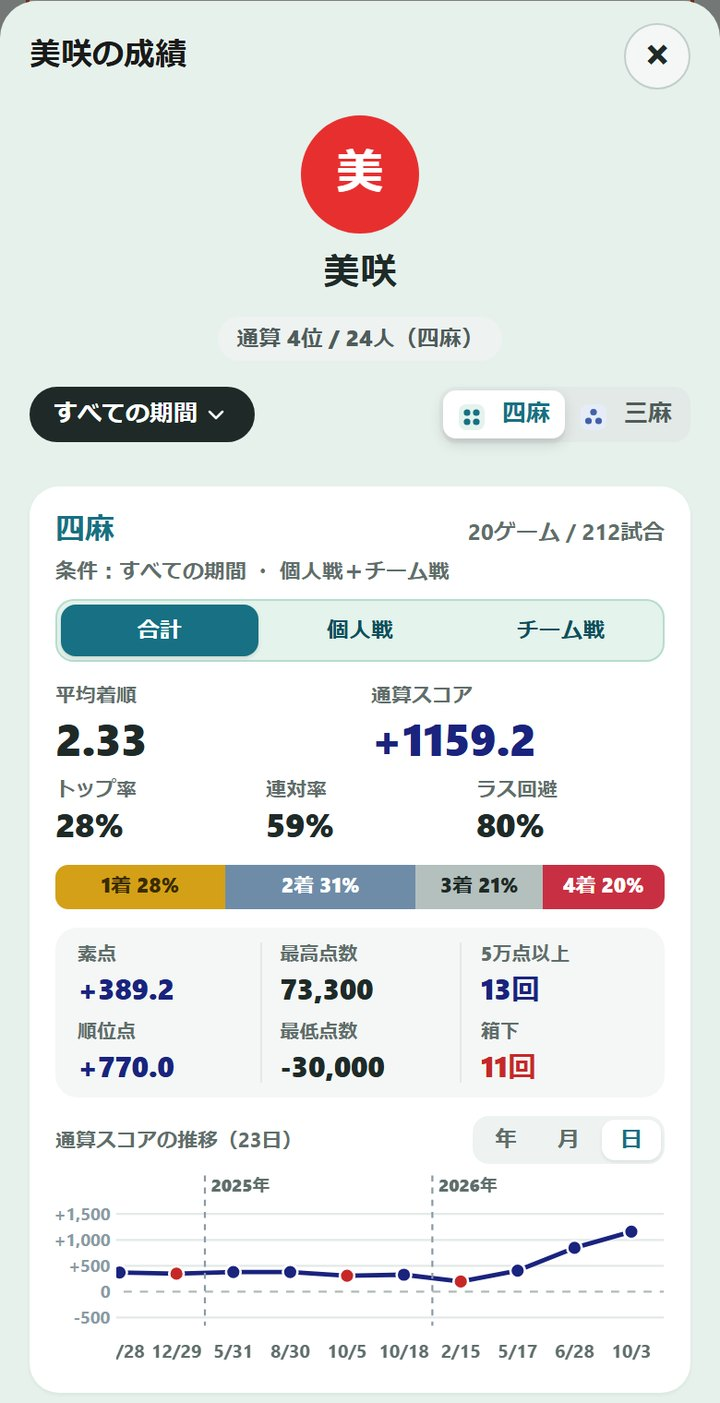
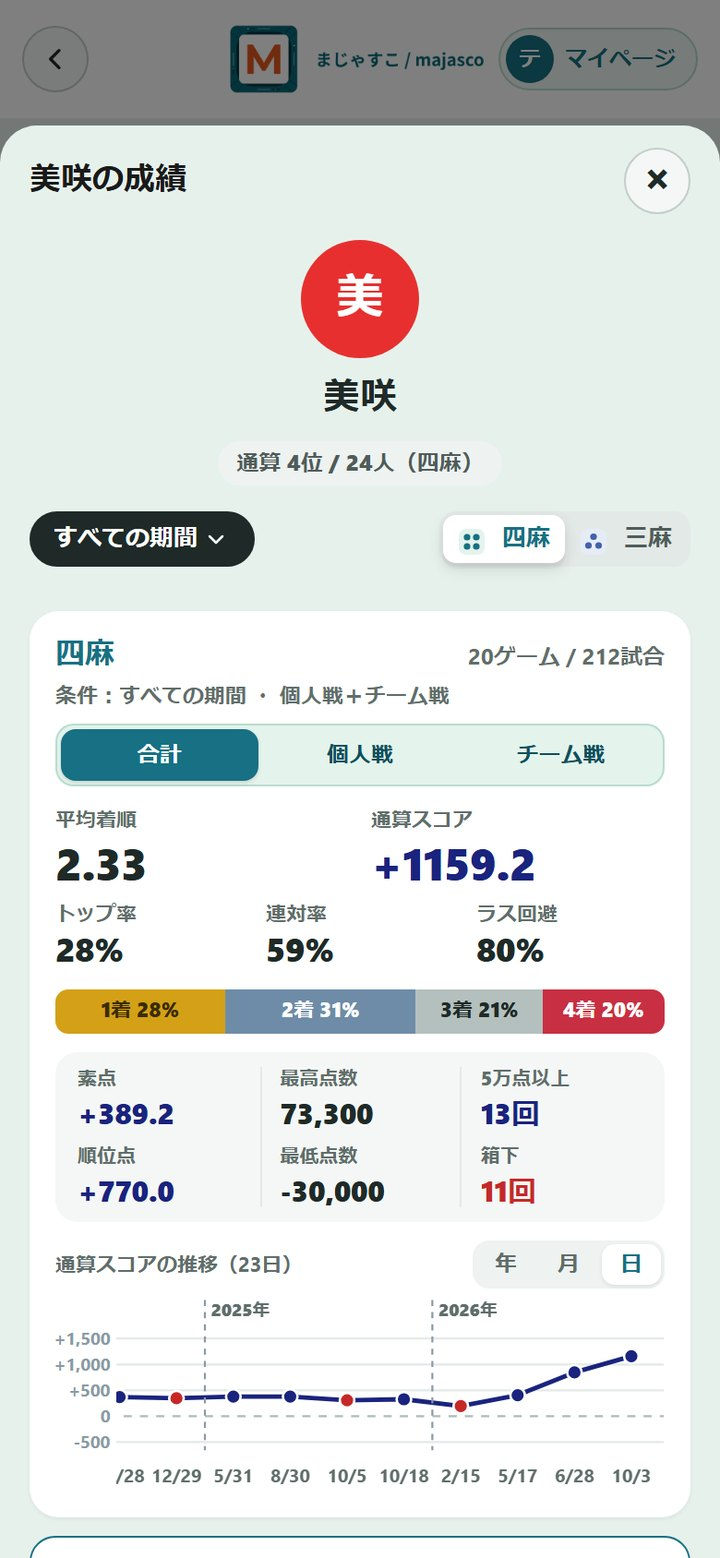
LP：実際の画面をスマホ1画面のスクショそのままに（切り抜かない・中身で埋まる位置で撮る。自分の成績はグラフの月を選んで試合が出ている所）。「スマホ1台で」の説明を1行に短く

diff --git a/index.html b/index.html
@@ -226,8 +226,9 @@ body { font-family: -apple-system, BlinkMacSystemFont, 'Segoe UI', sans-serif; b
 .lp-tab .lp-tab-t, .lp-tab .lp-tab-d { display: none; }
 .lp-phone { width: min(300px, 80vw); padding: 10px; border-radius: 44px; background: #1F2A28; box-shadow: 0 18px 40px rgba(16,40,36,.22); }
 .lp-phone-in { position: relative; border-radius: 34px; overflow: hidden; background: #E6F1EC; }
-.lp-phone-island { position: absolute; z-index: 2; top: 10px; left: 50%; width: 84px; height: 22px; margin-left: -42px; border-radius: 12px; background: #1F2A28; }
-.lp-phone-screen { height: min(540px, 115vw); overflow-y: auto; padding-top: 40px; scrollbar-width: none; overscroll-behavior: contain; }
+.lp-phone-bar { display: flex; justify-content: center; align-items: center; height: 30px; transition: background .3s; }
+.lp-phone-island { width: 84px; height: 20px; border-radius: 12px; background: #1F2A28; }
+.lp-phone-screen { overflow: hidden; }
 .lp-phone-screen::-webkit-scrollbar { display: none; }
 .lp-scr { display: none; width: 100%; height: auto; }
 .lp-scr.on { display: block; animation: lpIn .35s ease; }
@@ -240,7 +241,6 @@ body { font-family: -apple-system, BlinkMacSystemFont, 'Segoe UI', sans-serif; b
 @media (min-width: 1100px) {
   #view-home .lp-demo { display: grid; grid-template-columns: 320px minmax(0, 440px); grid-template-areas: "phone tabs"; justify-content: center; column-gap: 56px; align-items: center; }
   #view-home .lp-phone { grid-area: phone; width: 320px; }
-  #view-home .lp-phone-screen { height: 600px; }
   #view-home .lp-demo-tabs { grid-area: tabs; flex-direction: column; flex-wrap: nowrap; gap: 10px; }
   #view-home .lp-tab { text-align: left; border-radius: 12px; padding: 14px 18px; }
   #view-home .lp-tab b { display: none; }
@@ -272,7 +272,7 @@ body { font-family: -apple-system, BlinkMacSystemFont, 'Segoe UI', sans-serif; b
 .feature .feature-icon svg { position: relative; z-index: 1; width: 48px; height: 48px; }
 .feature h3, .feature p { padding: 0 16px; }
 .feature h3 { font-size: 16.5px; color: #1F2A28; font-weight: 900; }
-.feature p { font-size: 14px; color: #4F5C5A; line-height: 1.75; }
+.feature p { font-size: 14px; color: #4F5C5A; line-height: 1.75; text-wrap: pretty; word-break: auto-phrase; }
 .feature:nth-child(6n+1) { --fc: #0E95A3; } .feature:nth-child(6n+2) { --fc: #2F6BFF; } .feature:nth-child(6n+3) { --fc: #22B573; }
 .feature:nth-child(6n+4) { --fc: #8A5CF6; } .feature:nth-child(6n+5) { --fc: #F59E0B; } .feature:nth-child(6n+6) { --fc: #EC4899; }
 @media (min-width: 700px) { .feature { flex: 0 0 240px; } .features-row::after { flex: 0 0 calc(100% - 240px - 16px); } }
@@ -2682,62 +2682,62 @@ height="0" width="0" style="display:none;visibility:hidden"></iframe></noscript>
         <div class="feature">
           <div class="feature-icon fi-blue"><svg viewBox="0 0 48 48" width="30" height="30"><rect x="12" y="6" width="24" height="36" rx="5" fill="#177083"/><rect x="16" y="11" width="16" height="7" rx="2" fill="#E4F3EC"/><g fill="#E4F3EC"><rect x="16" y="22" width="4.5" height="4" rx="1.2"/><rect x="21.8" y="22" width="4.5" height="4" rx="1.2"/><rect x="27.5" y="22" width="4.5" height="4" rx="1.2"/><rect x="16" y="28.5" width="4.5" height="4" rx="1.2"/><rect x="21.8" y="28.5" width="4.5" height="4" rx="1.2"/><rect x="27.5" y="28.5" width="4.5" height="4" rx="1.2" fill="#E75620"/></g></svg></div>
           <h3>スコアを一瞬で計算</h3>
-          <p>目の前の表示点数をそのまま入力するだけで、返し点・ウマ・オカ込みのスコアを自動計算。同点のときのウマ・オカの山分けなど、ややこしい処理もすべて自動です。</p>
+          <p>表示点数を入れるだけ。ウマ・オカまで自動。</p>
         </div>
         <div class="feature">
           <div class="feature-icon fi-green"><svg viewBox="0 0 48 48" width="30" height="30"><rect x="13" y="12" width="17" height="30" rx="4.5" fill="#177083"/><rect x="16" y="16" width="11" height="18" rx="2" fill="#E4F3EC"/><path d="M34 18 a7 7 0 0 1 5 7" stroke="#E75620" stroke-width="2.5" fill="none" stroke-linecap="round"/><path d="M34 11 a13 13 0 0 1 10 13" stroke="#E75620" stroke-width="2.5" fill="none" stroke-linecap="round"/></svg></div>
           <h3>全員のスマホに共有</h3>
-          <p>URLをLINEなどで送るだけで、全員が同じスコア表を見られます。誰かが入力した結果は一瞬で全員のスマホに反映。「いま誰がトップ？」で毎試合盛り上がれます。</p>
+          <p>URLを送るだけ。入力は全員にすぐ反映。</p>
         </div>
         <div class="feature">
           <div class="feature-icon fi-blue"><svg viewBox="0 0 48 48" width="30" height="30"><rect x="8" y="8" width="32" height="32" rx="6" fill="#ffffff"/><polyline points="14,32 21,25 27,29 34,17" stroke="#177083" stroke-width="3.2" fill="none" stroke-linecap="round" stroke-linejoin="round"/><circle cx="34" cy="17" r="3.2" fill="#E75620"/></svg></div>
           <h3>推移グラフも自動</h3>
-          <p>試合ごとの累積スコアを自動でグラフ化。誰がいつ抜け出したのか、最終戦の大逆転まで、その日のドラマをあとから何度でも振り返れます。</p>
+          <p>誰がいつ抜け出したか、グラフでひと目。</p>
         </div>
         <div class="feature">
           <div class="feature-icon fi-green"><svg viewBox="0 0 48 48" width="30" height="30"><circle cx="13" cy="18" r="5" fill="#9fc3bd"/><path d="M5 34 Q13 25 21 34 Z" fill="#9fc3bd"/><circle cx="35" cy="18" r="5" fill="#9fc3bd"/><path d="M27 34 Q35 25 43 34 Z" fill="#9fc3bd"/><circle cx="24" cy="21" r="6" fill="#177083"/><path d="M14 39 Q24 28 34 39 Z" fill="#177083"/><path d="M40 7 Q40.9 10.1 44 11 Q40.9 11.9 40 15 Q39.1 11.9 36 11 Q39.1 10.1 40 7 Z" fill="#E75620"/></svg></div>
           <h3>最大40人で回し打ち</h3>
-          <p>メンバーは最大40人まで登録OK。試合ごとに対局する人を選ぶだけで、抜け番がいても一人ひとりの成績を自動で集計し続けます。</p>
+          <p>40人まで登録OK。抜け番も自動で集計。</p>
         </div>
         <div class="feature">
           <div class="feature-icon fi-blue"><svg viewBox="0 0 48 48" width="30" height="30"><path d="M16 8 H32 V17 A8 8 0 0 1 16 17 Z" fill="#177083"/><path d="M16 10 H10 A6.5 6.5 0 0 0 17 18" stroke="#9fc3bd" stroke-width="2.5" fill="none"/><path d="M32 10 H38 A6.5 6.5 0 0 1 31 18" stroke="#9fc3bd" stroke-width="2.5" fill="none"/><rect x="21.5" y="24" width="5" height="7" fill="#177083"/><rect x="15" y="31" width="18" height="5" rx="2" fill="#9fc3bd"/><circle cx="24" cy="14" r="2.6" fill="#E75620"/></svg></div>
           <h3>チーム戦にも対応</h3>
-          <p>メンバーをチームに分ければ、Mリーグのような団体戦に。チームカラーで色分けされた成績表と推移グラフで、チームの合計スコアを競えます。</p>
+          <p>チームに分けて、合計スコアで勝負。</p>
         </div>
         <div class="feature">
           <div class="feature-icon fi-green"><svg viewBox="0 0 48 48" width="30" height="30"><g stroke="#9fc3bd" stroke-width="3" stroke-linecap="round"><path d="M10 15 H38"/><path d="M10 24 H38"/><path d="M10 33 H38"/></g><circle cx="18" cy="15" r="4.2" fill="#177083"/><circle cx="31" cy="24" r="4.2" fill="#E75620"/><circle cx="22" cy="33" r="4.2" fill="#177083"/></svg></div>
           <h3>ルールは自由自在</h3>
-          <p>三麻・四麻はもちろん、持ち点・返し点・ウマまで細かく設定OK。いつもの仲間内ルールを、そのまま再現できます。</p>
+          <p>三麻も四麻も。持ち点・ウマも自由に。</p>
         </div>
         <div class="feature">
           <div class="feature-icon fi-blue"><svg viewBox="0 0 48 48" width="30" height="30"><ellipse cx="24" cy="31" rx="13" ry="5.5" fill="#177083"/><ellipse cx="24" cy="24.5" rx="13" ry="5.5" fill="#9fc3bd"/><ellipse cx="24" cy="18" rx="13" ry="5.5" fill="#ffffff" stroke="#9fc3bd" stroke-width="1.6"/><ellipse cx="24" cy="18" rx="6.5" ry="2.6" fill="none" stroke="#E75620" stroke-width="1.6"/></svg></div>
           <h3>焼き鳥やチョンボも記録</h3>
-          <p>1試合もアガれなかった焼き鳥<svg class="ico ico-in" width="16" height="16" aria-hidden="true" focusable="false"><use href="#i-yakitori"/></svg>や、チョンボ<svg class="ico ico-in" width="16" height="16" aria-hidden="true" focusable="false"><use href="#i-chombo"/></svg>のマークをワンタップで記録。チョンボの罰符は合計スコアに自動で反映されます。</p>
+          <p>ワンタップで記録。罰符もスコアに反映。</p>
         </div>
         <div class="feature">
           <div class="feature-icon fi-green"><svg viewBox="0 0 48 48" width="30" height="30"><rect x="11" y="7" width="26" height="34" rx="4" fill="#ffffff"/><path d="M11 11 a4 4 0 0 1 4 -4 h18 a4 4 0 0 1 4 4 v4 H11 Z" fill="#177083"/><g stroke="#9fc3bd" stroke-width="2.5" stroke-linecap="round"><path d="M16 22 H32"/><path d="M16 28 H32"/><path d="M16 34 H26"/></g><circle cx="33" cy="35" r="6" fill="#E75620"/><text x="33" y="38.2" font-size="8.5" font-weight="bold" fill="#ffffff" text-anchor="middle" font-family="sans-serif">1</text></svg></div>
           <h3>成績表も自動で作成</h3>
-          <p>1着〜ラスの回数、平均着順、ラス回避率まで自動で集計。試合を重ねるほどデータが貯まり、実力がはっきり見えてきます。</p>
+          <p>着順の回数・平均着順・ラス回避率まで。</p>
         </div>
         <div class="feature">
           <div class="feature-icon fi-blue"><svg viewBox="0 0 48 48" width="30" height="30"><circle cx="15" cy="17" r="6" fill="#177083"/><path d="M5 36 a10 9 0 0 1 20 0 Z" fill="#177083"/><circle cx="33" cy="17" r="6" fill="#9fc3bd"/><path d="M23 36 a10 9 0 0 1 20 0 Z" fill="#9fc3bd"/><circle cx="24" cy="26" r="7" fill="#E75620"/><text x="24" y="29.2" font-size="7.5" font-weight="bold" fill="#ffffff" text-anchor="middle" font-family="sans-serif">VS</text></svg></div>
           <h3>相手ごとの対戦成績</h3>
-          <p>同じ試合に出た相手ごとに「何勝何敗か」「平均着順」「スコア差」を自動で集計。相性のいい相手、手ごわい相手がひと目でわかります。</p>
+          <p>相性のいい相手、手ごわい相手がわかる。</p>
         </div>
         <div class="feature">
           <div class="feature-icon fi-green"><svg viewBox="0 0 48 48" width="30" height="30"><rect x="9" y="13" width="24" height="28" rx="4" fill="#9fc3bd"/><rect x="13" y="9" width="24" height="28" rx="4" fill="#ffffff" stroke="#177083" stroke-width="2"/><g stroke="#9fc3bd" stroke-width="2.5" stroke-linecap="round"><path d="M18 17 H32"/><path d="M18 23 H32"/><path d="M18 29 H27"/></g><path d="M31 31 h10 v5 a5 5 0 0 1 -10 0 Z" fill="#E75620"/><rect x="35" y="40" width="2" height="3" fill="#E75620"/><rect x="32.5" y="43" width="7" height="2" rx="1" fill="#E75620"/></svg></div>
           <h3>仲間ページで通算順位</h3>
-          <p>定例会や大会の試合を「仲間ページ」に集めると、自分が入っていない試合も含めた通算順位と対戦成績が出ます。結果のリンクは、ログインなしで誰でも見られます。</p>
+          <p>定例会の試合を集めて、通算の順位に。</p>
         </div>
         <div class="feature">
           <div class="feature-icon fi-blue"><svg viewBox="0 0 48 48" width="30" height="30"><rect x="10" y="7" width="28" height="34" rx="4" fill="#ffffff"/><path d="M10 12 a4 4 0 0 1 4 -5 h20 a4 4 0 0 1 4 5 v4 H10 Z" fill="#177083"/><g stroke="#9fc3bd" stroke-width="2.2"><path d="M10 24 H38"/><path d="M10 31 H38"/><path d="M19.5 16 V41"/><path d="M28.5 16 V41"/></g><circle cx="34" cy="34" r="7" fill="#E75620"/><path d="M34 30.4 V36 M31 33.4 L34 36.4 L37 33.4" stroke="#ffffff" stroke-width="2.2" fill="none" stroke-linecap="round" stroke-linejoin="round"/></svg></div>
           <h3>CSVで書き出せる</h3>
-          <p>試合結果はワンタップでCSVファイルをダウンロード。Excelやスプレッドシートに取り込めば、オリジナルの集計表や年間ランキングも作れます。</p>
+          <p>ワンタップでExcelやスプレッドシートへ。</p>
         </div>
         <div class="feature">
           <div class="feature-icon fi-green"><svg viewBox="0 0 48 48" width="30" height="30"><rect x="8" y="10" width="17" height="30" rx="4" fill="#9fc3bd"/><rect x="11" y="14" width="11" height="18" rx="2" fill="#ffffff"/><rect x="24" y="8" width="17" height="30" rx="4" fill="#177083"/><rect x="27" y="12" width="11" height="18" rx="2" fill="#E4F3EC"/><g transform="translate(15 30)"><circle cx="6" cy="6" r="5" fill="none" stroke="#E75620" stroke-width="3.2"/><line x1="9.8" y1="9.8" x2="19" y2="19" stroke="#E75620" stroke-width="3.2" stroke-linecap="round"/><line x1="15" y1="15" x2="18" y2="12" stroke="#E75620" stroke-width="3.2" stroke-linecap="round"/></g></svg></div>
           <h3>ログインで記録がずっと残る</h3>
-          <p>Googleでログインすると、過去の試合と自分の成績がアカウントに残ります。機種変更しても、ホーム画面のアプリでも同じ一覧。記録するだけならログインは不要です。</p>
+          <p>機種変更しても、成績はずっと残る。</p>
         </div>
         </div>
         <button type="button" class="features-nav next" onclick="featuresScroll(1)" aria-label="次の項目へ">›</button>
@@ -2753,11 +2753,11 @@ height="0" width="0" style="display:none;visibility:hidden"></iframe></noscript>
       <h2>実際の画面で見る。</h2>
       <p class="lp-body" style="text-align:center">記録は、打つたびに積み上がります。</p>
       <div class="lp-demo" id="lp-demo">
-        <div class="lp-demo-tabs" role="tablist" aria-label="見たい画面を選ぶ"><button type="button" role="tab" class="lp-tab on" aria-selected="true" aria-controls="lp-scr-rank" onclick="lpDemo(0, true)"><b>通算順位</b><span class="lp-tab-t">仲間の通算順位が、表彰台で</span><span class="lp-tab-d">ゲームを集めるだけで、通算スコア・平均着順の順位が自動で決まります。</span></button><button type="button" role="tab" class="lp-tab" aria-selected="false" aria-controls="lp-scr-month" onclick="lpDemo(1, true)"><b>今月の試合</b><span class="lp-tab-t">今月の勝ち、ひと目で</span><span class="lp-tab-d">グラフの月を押すと、その月のゲームごとの順位・スコア・着順の回数が並びます。</span></button><button type="button" role="tab" class="lp-tab" aria-selected="false" aria-controls="lp-scr-h2h" onclick="lpDemo(2, true)"><b>総当たり</b><span class="lp-tab-t">あの人には勝ち越してる？</span><span class="lp-tab-d">同じ試合で上だった回数を、メンバーどうしの総当たりで。相性が数字で出ます。</span></button><button type="button" role="tab" class="lp-tab" aria-selected="false" aria-controls="lp-scr-member" onclick="lpDemo(3, true)"><b>メンバーの成績</b><span class="lp-tab-t">メンバーごとの成績と推移</span><span class="lp-tab-d">平均着順・トップ率・ラス回避と、通算スコアの上がり下がりがグラフで。</span></button><button type="button" role="tab" class="lp-tab" aria-selected="false" aria-controls="lp-scr-mypage" onclick="lpDemo(4, true)"><b>自分の成績</b><span class="lp-tab-t">自分の成績も、ずっと残る</span><span class="lp-tab-d">Googleでログインすれば、何年分でも自分の成績と推移が残ります。</span></button></div>
-        <div class="lp-phone" aria-label="スマホの画面"><div class="lp-phone-in"><span class="lp-phone-island" aria-hidden="true"></span><div class="lp-phone-screen" tabindex="0"><img id="lp-scr-rank" class="lp-scr on" role="tabpanel" src="/assets/screens/lp-rank.jpg" width="720" height="1060" alt="仲間ページの通算順位の画面。表彰台に1位から3位、その下に4位以下のスコア" loading="lazy" data-href="/news/nakama-page.html" data-title="仲間の通算順位が、表彰台で" data-desc="ゲームを集めるだけで、通算スコア・平均着順の順位が自動で決まります。"><img id="lp-scr-month" class="lp-scr" role="tabpanel" src="/assets/screens/lp-month.jpg" width="720" height="596" alt="マイページの、ある月の試合の一覧。ゲームごとの順位とスコア、1着から4着の回数、相手" loading="lazy" data-href="/news/mypage-stats.html" data-title="今月の勝ち、ひと目で" data-desc="グラフの月を押すと、その月のゲームごとの順位・スコア・着順の回数が並びます。"><img id="lp-scr-h2h" class="lp-scr" role="tabpanel" src="/assets/screens/lp-h2h.jpg" width="720" height="984" alt="総当たり表。メンバーどうしの直接対決の勝ち越し・負け越し" loading="lazy" data-href="/news/nakama-page.html#h2h" data-title="あの人には勝ち越してる？" data-desc="同じ試合で上だった回数を、メンバーどうしの総当たりで。相性が数字で出ます。"><img id="lp-scr-member" class="lp-scr" role="tabpanel" src="/assets/screens/lp-member.jpg" width="720" height="1403" alt="メンバーの成績の画面。平均着順・通算スコア・トップ率と、通算スコアの推移のグラフ" loading="lazy" data-href="/news/nakama-page.html" data-title="メンバーごとの成績と推移" data-desc="平均着順・トップ率・ラス回避と、通算スコアの上がり下がりがグラフで。"><img id="lp-scr-mypage" class="lp-scr" role="tabpanel" src="/assets/screens/lp-mypage.jpg" width="720" height="908" alt="マイページの成績カード。平均着順・通算スコア・着順の割合と推移のグラフ" loading="lazy" data-href="/news/mypage-stats.html" data-title="自分の成績も、ずっと残る" data-desc="Googleでログインすれば、何年分でも自分の成績と推移が残ります。"></div></div></div>
+        <div class="lp-demo-tabs" role="tablist" aria-label="見たい画面を選ぶ"><button type="button" role="tab" class="lp-tab on" aria-selected="true" aria-controls="lp-scr-rank" onclick="lpDemo(0, true)"><b>通算順位</b><span class="lp-tab-t">仲間の通算順位が、表彰台で</span><span class="lp-tab-d">ゲームを集めるだけで、通算スコア・平均着順の順位が自動で決まります。</span></button><button type="button" role="tab" class="lp-tab" aria-selected="false" aria-controls="lp-scr-games" onclick="lpDemo(1, true)"><b>過去の試合</b><span class="lp-tab-t">何十回分の試合も、ひと目で</span><span class="lp-tab-d">打った日ごとにタイルで並び、押せばその日の結果が開きます。</span></button><button type="button" role="tab" class="lp-tab" aria-selected="false" aria-controls="lp-scr-h2h" onclick="lpDemo(2, true)"><b>総当たり</b><span class="lp-tab-t">あの人には勝ち越してる？</span><span class="lp-tab-d">同じ試合で上だった回数を、メンバーどうしの総当たりで。相性が数字で出ます。</span></button><button type="button" role="tab" class="lp-tab" aria-selected="false" aria-controls="lp-scr-member" onclick="lpDemo(3, true)"><b>メンバーの成績</b><span class="lp-tab-t">メンバーごとの成績と推移</span><span class="lp-tab-d">平均着順・トップ率・ラス回避と、通算スコアの上がり下がりがグラフで。</span></button><button type="button" role="tab" class="lp-tab" aria-selected="false" aria-controls="lp-scr-mypage" onclick="lpDemo(4, true)"><b>自分の成績</b><span class="lp-tab-t">グラフを押すと、その月の試合</span><span class="lp-tab-d">自分の通算スコアの推移。月を押すと、その月のゲームの順位とスコアが下に並びます。</span></button></div>
+        <div class="lp-phone" aria-label="スマホの画面"><div class="lp-phone-in"><span class="lp-phone-bar" style="background:#FAF6EB" aria-hidden="true"><span class="lp-phone-island"></span></span><div class="lp-phone-screen"><img id="lp-scr-rank" class="lp-scr on" role="tabpanel" src="/assets/screens/lp-rank.jpg" width="720" height="1558" alt="仲間ページの通算順位の画面。表彰台に1位から3位、その下に4位以下のスコアが並ぶ" loading="lazy" data-href="/news/nakama-page.html" data-title="仲間の通算順位が、表彰台で" data-desc="ゲームを集めるだけで、通算スコア・平均着順の順位が自動で決まります。" data-top="#FAF6EB"><img id="lp-scr-games" class="lp-scr" role="tabpanel" src="/assets/screens/lp-games.jpg" width="720" height="1558" alt="仲間ページの過去の試合の画面。月ごとに試合のタイルが並ぶ" loading="lazy" data-href="/news/nakama-page.html" data-title="何十回分の試合も、ひと目で" data-desc="打った日ごとにタイルで並び、押せばその日の結果が開きます。" data-top="#FAF6EB"><img id="lp-scr-h2h" class="lp-scr" role="tabpanel" src="/assets/screens/lp-h2h.jpg" width="720" height="1558" alt="総当たり表。メンバーどうしの直接対決の勝ち越し・負け越し" loading="lazy" data-href="/news/nakama-page.html#h2h" data-title="あの人には勝ち越してる？" data-desc="同じ試合で上だった回数を、メンバーどうしの総当たりで。相性が数字で出ます。" data-top="#FAF6EB"><img id="lp-scr-member" class="lp-scr" role="tabpanel" src="/assets/screens/lp-member.jpg" width="720" height="1558" alt="メンバーの成績の画面。平均着順・通算スコア・トップ率と、通算スコアの推移のグラフ" loading="lazy" data-href="/news/nakama-page.html" data-title="メンバーごとの成績と推移" data-desc="平均着順・トップ率・ラス回避と、通算スコアの上がり下がりがグラフで。" data-top="#7F7F7F"><img id="lp-scr-mypage" class="lp-scr" role="tabpanel" src="/assets/screens/lp-mypage.jpg" width="720" height="1558" alt="マイページの成績。通算スコアの推移のグラフで月を選ぶと、その月のゲームごとの順位とスコアが並ぶ" loading="lazy" data-href="/news/mypage-stats.html" data-title="グラフを押すと、その月の試合" data-desc="自分の通算スコアの推移。月を押すと、その月のゲームの順位とスコアが下に並びます。" data-top="#E6F1EB"></div></div></div>
         <div class="lp-demo-cap"><b id="lp-demo-t">仲間の通算順位が、表彰台で</b><span id="lp-demo-d">ゲームを集めるだけで、通算スコア・平均着順の順位が自動で決まります。</span><a id="lp-demo-a" href="/news/nakama-page.html">くわしく見る ›</a></div>
       </div>
-      <p class="lp-shots-note">実際の仲間ページの記録です（人の名前とグループ名は置きかえています）。画面の中はスクロールできます。</p>
+      <p class="lp-shots-note">実際の仲間ページの記録を、スマホの画面のまま撮ったものです（人の名前とグループ名は置きかえています）。</p>
     </div>
   </section>
 
@@ -7679,7 +7679,7 @@ function lpDemo(i, user) {
   tabs.forEach((t, j) => { t.classList.toggle('on', j === lpDemoIdx); t.setAttribute('aria-selected', j === lpDemoIdx ? 'true' : 'false'); });
   scrs.forEach((el, j) => el.classList.toggle('on', j === lpDemoIdx));
   const cur = scrs[lpDemoIdx];
-  root.querySelector('.lp-phone-screen').scrollTop = 0;
+  root.querySelector('.lp-phone-bar').style.background = cur.dataset.top;
   document.getElementById('lp-demo-t').textContent = cur.dataset.title;
   document.getElementById('lp-demo-d').textContent = cur.dataset.desc;
   document.getElementById('lp-demo-a').href = cur.dataset.href;
@@ -7688,7 +7688,7 @@ function initLpDemo() {
   const root = document.getElementById('lp-demo');
   if (!root) return;
   root.querySelectorAll('.lp-scr').forEach(img => { img.loading = 'eager'; });
-  root.querySelector('.lp-phone-screen').addEventListener('pointerdown', () => { lpDemoUser = true; clearInterval(lpDemoTimer); }, { passive: true });
+  root.querySelector('.lp-phone').addEventListener('pointerdown', () => { lpDemoUser = true; clearInterval(lpDemoTimer); }, { passive: true });
   if (window.matchMedia && matchMedia('(prefers-reduced-motion: reduce)').matches) return;
   if (!('IntersectionObserver' in window)) return;
   new IntersectionObserver(es => es.forEach(e => {

diff --git a/tools/shoot_lp_screens_plan.py b/tools/shoot_lp_screens_plan.py
@@ -1,68 +1,49 @@
-# shoot_lp_screens.py から読み込む撮影の段取り（どの画面をどの順に撮るか）。期間は「すべて」・四麻
-def clip(sel, name, maxh):
-    """長い要素は上から maxh（CSS px）だけ撮る"""
-    el = pg.locator(sel).first
-    el.scroll_into_view_if_needed()
-    pg.evaluate("(s) => { const e = document.querySelector(s); window.scrollTo(0, e.getBoundingClientRect().top + scrollY - 8); }", sel)
-    pg.wait_for_timeout(350)
-    b = pg.evaluate("(s) => { const r = document.querySelector(s).getBoundingClientRect(); return {x: r.left, y: r.top, w: r.width, h: r.height}; }", sel)
-    h = min(b["h"], maxh)
-    pg.set_viewport_size({"width": 390, "height": int(max(844, h + 40))})
-    pg.wait_for_timeout(200)
-    b = pg.evaluate("(s) => { const r = document.querySelector(s).getBoundingClientRect(); return {x: r.left, y: r.top, w: r.width, h: r.height}; }", sel)
+# shoot_lp_screens.py から読み込む撮影の段取り（2026-10-26 第2版）。
+# スマホ1画面（390×844）をそのまま撮る＝要素を切り抜かない（切り抜くと周りに色の縁が残る・不自然、というユーザーの指摘）。
+# どの画面も中身で埋まる位置までスクロールしてから撮る。期間は「すべて」・四麻
+def vshot(name, sel, top=56):
+    """sel の要素の上端が画面の上から top px に来るようにスクロールして、画面1枚をそのまま撮る"""
+    pg.evaluate("""([s, t]) => { const e = document.querySelector(s); if (!e) return;
+      const y = e.getBoundingClientRect().top + window.scrollY - t; window.scrollTo(0, Math.max(0, y)); }""", [sel, top])
+    pg.wait_for_timeout(500)
     path = os.path.join(OUT, "lp-" + name + ".png")
-    pg.screenshot(path=path, clip={"x": b["x"], "y": b["y"], "width": b["w"], "height": min(b["h"], maxh)})
-    pg.set_viewport_size({"width": 390, "height": 844})
+    pg.screenshot(path=path)
     shots.append((name, path, pg.evaluate(CUT_JS, sel)))
 
-# 横にスクロールする並び（指標のボタン）は、撮るときだけ折り返して全部見せる（右端で文字が切れないように）
-pg.add_style_tag(content="#circle-body [onclick*=shiftCircleMetricTo] { flex-shrink: 0; } ")
-pg.evaluate("""() => { const b = document.querySelector("#circle-body [onclick*=shiftCircleMetricTo]"); if (b) window.__chipRowCls = b.parentElement.className; }""")
 pg.evaluate("setMpPeriod('all'); mpMode = 4; circleTab = 'rank'; circleMetric = 'score'; renderCircle()")
 pg.wait_for_timeout(900)
-row = pg.evaluate("(() => { const b = document.querySelector('#circle-body [onclick*=shiftCircleMetricTo]'); return b ? b.parentElement.className : ''; })()")
-if row:
-    pg.add_style_tag(content="." + row.split()[0] + " { flex-wrap: wrap !important; overflow: visible !important; }")
-    pg.wait_for_timeout(200)
-# 通算順位：表彰台と4〜7位のカードまで（カードの途中で切らない）
-cut = pg.evaluate("""(() => { const card = document.querySelector('#circle-body .rank-card'); const top = card.getBoundingClientRect().top;
-  const items = [...card.querySelectorAll('[onclick^=openCircleMember]')]; const it = items[5] || items[items.length - 1];
-  return Math.round(it.getBoundingClientRect().bottom - top + 3); })()""")
-clip("#circle-body .rank-card", "rank", cut)
-pg.evaluate("circleTab = 'h2h'; renderCircle()"); pg.wait_for_timeout(800)
-# 総当たり表は相手4人ぶんの列だけ見せる（右の列が途中で切れないように）
-pg.add_style_tag(content="#circle-body .card table th:nth-child(n+6), #circle-body .card table td:nth-child(n+6) { display: none !important; } #circle-body .card table { width: 100% !important; min-width: 0 !important; }")
-pg.wait_for_timeout(300)
-cut = pg.evaluate("""(() => { const card = document.querySelector('#circle-body .card'); const top = card.getBoundingClientRect().top;
-  const rows = [...card.querySelectorAll('tbody tr')]; const r = rows[Math.min(6, rows.length - 1)]; return Math.round(r.getBoundingClientRect().bottom - top + 1); })()""")
-clip("#circle-body .card", "h2h", cut)
+# 通算順位：表彰台から下の順位まで
+vshot("rank", "#circle-body .rank-card", 64)
+# 過去の試合：ゲームのタイルがびっしり
+pg.evaluate("circleTab = 'games'; renderCircle()"); pg.wait_for_timeout(1000)
+vshot("games", "#circle-body .card", 64)
+# 総当たり表
+pg.evaluate("circleTab = 'h2h'; renderCircle()"); pg.wait_for_timeout(900)
+vshot("h2h", "#circle-body .card", 64)
+# メンバーの成績（シートは画面いっぱいに開くので、そのまま撮る）
 pg.evaluate("circleTab = 'rank'; renderCircle()"); pg.wait_for_timeout(500)
-pg.evaluate("openCircleMember('HjepWbWQ')"); pg.wait_for_timeout(900)
-clip("#form-modal .form-modal-box", "member", 760)
+pg.evaluate("window.scrollTo(0, 0)")
+pg.evaluate("openCircleMember('HjepWbWQ')"); pg.wait_for_timeout(1200)
+path = os.path.join(OUT, "lp-member.png"); pg.screenshot(path=path); shots.append(("member", path, []))
 pg.evaluate("closeFormModal()"); pg.wait_for_timeout(300)
-# マイページ（仲間ページの試合を自分の過去の試合に入れてから）
+# マイページ：月ごとのグラフの点を押して、その下にその月の試合が出ているところ
 pg.evaluate("(async () => { await syncCircleGamesToMine(); })()"); pg.wait_for_timeout(1500)
-pg.evaluate("showView('history'); setMpPeriod('all'); mpMode = 4; renderHistory()"); pg.wait_for_timeout(1200)
-shot("#view-history .mc-card", "mypage")
-# グラフを月ごとにして、点を押すと出る「その月の試合」（勝った月・ゲームが2つ以上の月を選ぶ）
-pg.evaluate("setMpPane('sum'); sparkUnit = 'm'; renderHistory()"); pg.wait_for_timeout(1000)
+pg.evaluate("showView('history'); setMpPeriod('all'); mpMode = 4; setMpPane('sum'); sparkUnit = 'm'; renderHistory()"); pg.wait_for_timeout(1200)
 n = pg.evaluate("document.querySelectorAll('#view-history .sp-hit').length")
 best = None
 for k in range(n):
     pg.evaluate(f"document.querySelectorAll('#view-history .sp-hit')[{k}].dispatchEvent(new MouseEvent('click', {{ bubbles: true }}))")
-    pg.wait_for_timeout(250)
+    pg.wait_for_timeout(200)
     info = pg.evaluate("""(() => { const p = document.querySelector('#view-history .sp-pop'); if (!p) return null;
-      const t = (p.querySelector('.sp-sum') || {}).innerText || ''; const m = t.replace(/−/g, '-').match(/([+-][0-9,]+\.?[0-9]*)\s*$/);
-      return { sum: m ? parseFloat(m[1].replace(/,/g, '')) : null, games: p.querySelectorAll('.sp-g').length, h: p.offsetHeight, t: t.replace(/\s+/g, ' ') }; })()""")
-    if info and info["sum"] is not None and 2 <= info["games"] <= 3 and info["h"] < 900 and (best is None or info["sum"] > best[1]["sum"]):
+      const t = (p.querySelector('.sp-sum') || {}).innerText || ''; const m = t.replace(/−/g, '-').match(/([+-][0-9,]+\\.?[0-9]*)\\s*$/);
+      return { sum: m ? parseFloat(m[1].replace(/,/g, '')) : null, games: p.querySelectorAll('.sp-g').length }; })()""")
+    if info and info["sum"] is not None and 2 <= info["games"] <= 3 and (best is None or info["sum"] > best[1]["sum"]):
         best = (k, info)
 print("best month", best)
-if best:
-    pg.evaluate(f"document.querySelectorAll('#view-history .sp-hit')[{best[0]}].dispatchEvent(new MouseEvent('click', {{ bubbles: true }}))")
-    pg.wait_for_timeout(400)
-    b = pg.evaluate("(() => { const p = document.querySelector('#view-history .sp-pop'); p.scrollIntoView({block: 'center'}); return 1; })()")
-    pg.wait_for_timeout(300)
-    b = pg.evaluate("(() => { const p = document.querySelector('#view-history .sp-pop'); const tag = p.querySelector('.sp-tag'); const r = p.getBoundingClientRect(); const t = tag.getBoundingClientRect(); const top = Math.min(r.top, t.top) - 4; return {x: r.left - 4, y: top, w: r.width + 8, h: r.bottom - top + 6}; })()")
-    path = os.path.join(OUT, "lp-month.png")
-    pg.screenshot(path=path, clip={"x": b["x"], "y": b["y"], "width": b["w"], "height": b["h"]})
-    shots.append(("month", path, pg.evaluate(CUT_JS, "#view-history .sp-pop")))
+pg.evaluate(f"document.querySelectorAll('#view-history .sp-hit')[{best[0]}].dispatchEvent(new MouseEvent('click', {{ bubbles: true }}))")
+pg.wait_for_timeout(500)
+# グラフの見出しが画面の上の方に来て、その下に選んだ月の試合が並ぶ位置
+pg.evaluate("""(() => { const g = document.querySelector('#view-history .sp-pop'); const card = g.closest('.mc-card') || g.parentElement;
+  const graph = card.querySelector('svg') || g; const y = graph.getBoundingClientRect().top + window.scrollY - 150; window.scrollTo(0, Math.max(0, y)); })()""")
+pg.wait_for_timeout(500)
+path = os.path.join(OUT, "lp-mypage.png"); pg.screenshot(path=path); shots.append(("mypage", path, []))
